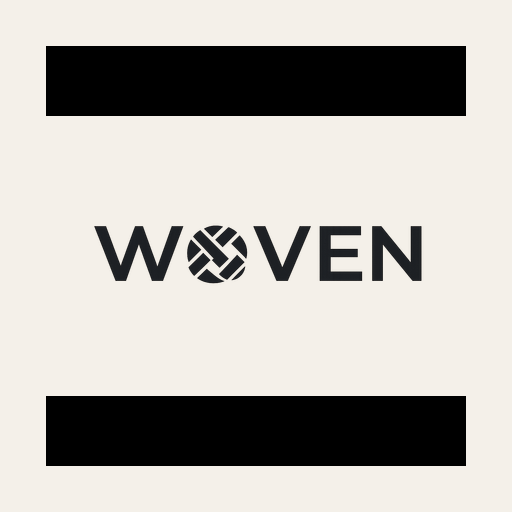
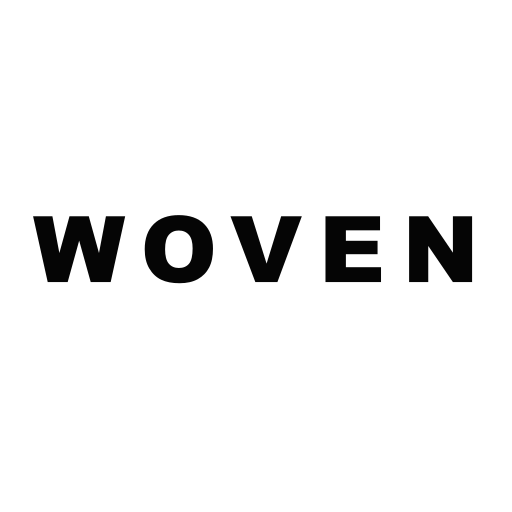
Refactor code structure for improved readability and maintainability

diff --git a/src/components/woven-client.tsx b/src/components/woven-client.tsx
@@ -680,31 +680,6 @@ function OutfitBuilder() {
   );
 }
 
-function ReviewsStrip() {
-  return null;
-  /*
-  return (
-    <section className="woven-reviews">
-      <div className="woven-shell">
-        <div className="woven-section-heading">
-          <h2>Worn Daily</h2>
-          <Link href="/shop">Shop Favorites</Link>
-        </div>
-        <div className="woven-review-grid">
-          {reviewCards.map(([name, copy]) => (
-            <article key={name}>
-              <div>★★★★★</div>
-              <p>{copy}</p>
-              <strong>{name}</strong>
-            </article>
-          ))}
-        </div>
-      </div>
-    </section>
-  );
-  */
-}
-
 function StoreCta() {
   return (
     <section className="woven-store-cta woven-shell">
@@ -944,7 +919,6 @@ export function ThemeExperience({ catalog = fallbackCatalog }: { catalog?: Catal
         <OutfitBuilder />
         <Lookbook />
         <EditorialGrid />
-        <ReviewsStrip />
         <ServicePanel />
         <StoreCta />
         <Newsletter />
@@ -1017,7 +991,6 @@ export function ShopPage({ catalog = fallbackCatalog }: { catalog?: CatalogData 
           ))}
         </section>
         <OutfitBuilder />
-        <ReviewsStrip />
         <ServicePanel />
       </main>
       <Footer catalog={catalog} />
@@ -1142,7 +1115,6 @@ export function LookbookPage({ catalog = fallbackCatalog }: { catalog?: CatalogD
         </section>
         <OutfitBuilder />
         <EditorialGrid />
-        <ReviewsStrip />
         <FeaturedSlider catalog={catalog} />
         <Newsletter />
       </main>

diff --git a/src/app/layout.tsx b/src/app/layout.tsx
@@ -52,7 +52,7 @@ export const metadata: Metadata = {
     siteName: "Woven",
     title: "Woven Clothing Pakistan - Minimal Everyday Essentials",
     description: "Cotton tees, pants, shirts, formal layers, hoodies, jackets, and seasonal essentials by Woven.",
-    images: [{ url: "/og-image.jpg", width: 1200, height: 630, alt: "Woven clothing collections" }],
+    images: [{ url: "/og-image.png", width: 1200, height: 630, alt: "Woven wordmark" }],
   },
   twitter: {
     card: "summary_large_image",

diff --git a/src/app/page.tsx b/src/app/page.tsx
@@ -8,7 +8,7 @@ export default async function Home() {
     "@type": "Organization",
     name: "Woven",
     url: "https://woven.pk",
-    logo: "https://woven.pk/images/Woven_logo.png",
+    logo: "https://woven.pk/woven-wordmark.png",
     sameAs: ["https://www.instagram.com/wovenpk", "https://www.facebook.com/wovenpk"],
     contactPoint: {
       "@type": "ContactPoint",

diff --git a/src/app/products/[slug]/page.tsx b/src/app/products/[slug]/page.tsx
@@ -9,7 +9,7 @@ function productImageUrl(imagePath: string) {
   const supabaseUrl = process.env.NEXT_PUBLIC_SUPABASE_URL;
 
   if (!supabaseUrl) {
-    return `${SITE_URL}/images/Woven_logo_with_tagline.png`;
+    return `${SITE_URL}/woven-wordmark.png`;
   }
 
   return `${supabaseUrl.replace(/\/$/, "")}/storage/v1/object/public/product-images/${imagePath}`;
